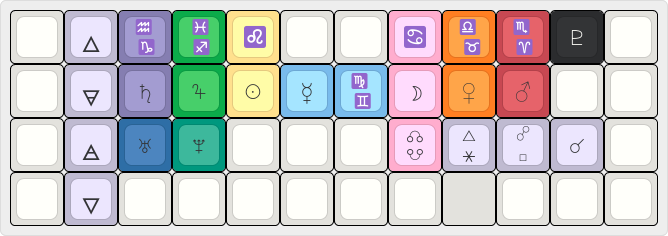
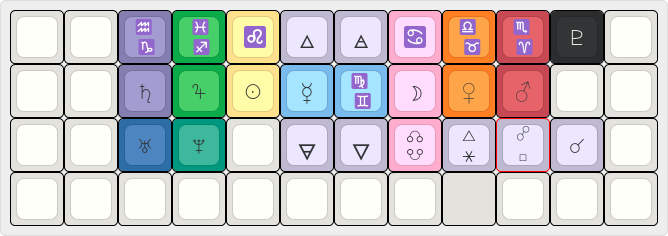
moved elements, more lazing

diff --git a/planck-rev7/keymap.c b/planck-rev7/keymap.c
@@ -73,20 +73,20 @@ const uint16_t PROGMEM keymaps[][MATRIX_ROWS][MATRIX_COLS] = {
     [_UNICODE] = LAYOUT_planck_grid(
         /* row 1*/
         _______,
-        UM(FIRE),
+        _______,
         UP(CAPRICORN, AQUARIUS),
         UP(SAGITTARIUS, PISCES),
         UM(LEO),
-        _______,
-        _______,
+        UM(FIRE),
+        UM(AIR),
         UM(CANCER),
-        UP(TAURUS, LIBRA), 
+        UP(TAURUS, LIBRA),
         UP(ARIES, SCORPIO),
         UM(PLT),
         _______,
-        /*home row*/    
+        /*home row*/
         _______,
-        UM(EARTH),
+        _______,
         UM(PB),
         UM(SN),
         UM(AE),
@@ -99,19 +99,19 @@ const uint16_t PROGMEM keymaps[][MATRIX_ROWS][MATRIX_COLS] = {
         _______,
         /*row 3*/
         _______,
-        UM(AIR),
+        _______,
         UM(UNS),
         UM(NPN),
         _______,
-        _______,
-        _______,
+        UM(EARTH),
+        UM(WATER),
         UP(SND, NND),
         UP(STL, TRN),
         UP(SQR, OPP),
         UM(CJT),
         _______,
         /*row 4*/
-        _______,UM(WATER),_______,_______,_______,_______,_______,_______,_______,_______,_______,_______       
+        _______,_______,_______,_______,_______,_______,_______,_______,_______,_______,_______,_______
     ),
     [_VIM] = LAYOUT_planck_grid(
         _______,_______,_______,_______,_______,_______,_______,_______,_______,_______,_______,_______,

diff --git a/README.md b/README.md
@@ -1,24 +1,25 @@
 # actual astrolokeys
 
-sailorhg and Cassidoo's [keycaps](https://astrolokeys.com/) got me into
-mechanical keyboards in the first place, and it was only when showing off my
-Planck to a new astrologer friend that it occured to me to make a functional
-astrologers' keyboard. This is a QMK unicode map pedantically dictated by
-Hellenstic astrological concepts like essential dignity.
+![astrolokeys](astrolokeys.png)
 
-I imagine the Venn diagram of QMK users and astrologers is very slim, since I
+
+I suspect the Venn diagram of QMK users and astrologers is very slim, since I
 can't imagine an astrologer dropping $200 on a custom keyboard if they don't
-already dabble in the hobby. If anything, this is a thema mundi study tool for
-anyone who likes C, so if you're in that demographic, we should start a Discord
-server.
+already have one. [sailorhg and Cassidoo's keycaps](https://astrolokeys.com/)
+got me into mechanical keyboards in the first place, and it was only when
+showing off my astrolokey'd Planck to a new astrologer friend that it occured
+to me to make something extremely niche and practical. This is a QMK unicode
+map pedantically dictated by Western astrological concepts like essential
+dignity. If anything, this is a thema mundi study tool for anyone who likes C,
+so if you're in that demographic, we should start a Discord server.
 
 ## use
 
-The repo's main event is `unicodemap.c`, a modular hunk of code for you to throw
-into your keymap and arrange how you wish. However, I stand by my layout, which
-I think is perfectly adaptable to a more standard, staggered board.
-
-![astrolokeys](astrolokeys.png)
+Assuming you're using `qmk-cli` since the configurator is tedious when it comes
+to custom keycodes. The repo's main event is `unicodemap.c`, a modular hunk of
+code for you to throw in front of your keymap and arrange how you wish.
+However, I stand by my layout, which I think is perfectly adaptable to a more
+standard, horzontally staggered board, and a nerdy teaching tool.
 
 - The home row is the seven classical planets divided by
     [sect](https://www.youtube.com/watch?v=1XfPLTQuB9MP), with Mercury in the
@@ -29,7 +30,7 @@ I think is perfectly adaptable to a more standard, staggered board.
     astrology, you have to work to get the north node.
 - The outer planets are no more than 2 keys from their modern domiciles.
     - Pluto is next to the Aries/Scorpio key, aka QWERTY "P" for unintended
-        pneumoic ease;
+        mnemonic  ease;
     - Uranus and Neptune are next to each other under Saturn (Aquarius) and
         Jupiter (Pisces) for my agenda even greater than astrological tradition
         (lesbianism).
@@ -37,7 +38,7 @@ I think is perfectly adaptable to a more standard, staggered board.
     terms of punctuation. `Shift` to acess the larger angles.
 - Big nerd `enum` table bonus: the planets' aliases are their metals in alchemy.
 - Threw in the classical elements' alchemical symbols for fun,  since the
-    Planck's 4x12 grid is numerological.
+    Planck's 4x12 grid is sooo astrological or numerological or trigonometric.
 
 ![gay](https://64.media.tumblr.com/9bb26e7b1de7176e06d38934e0522ea0/04db6912d086d74c-42/s540x810/e93482e7a89403f40a79d5a015c08eae5fc1d84e.gifv)
 
